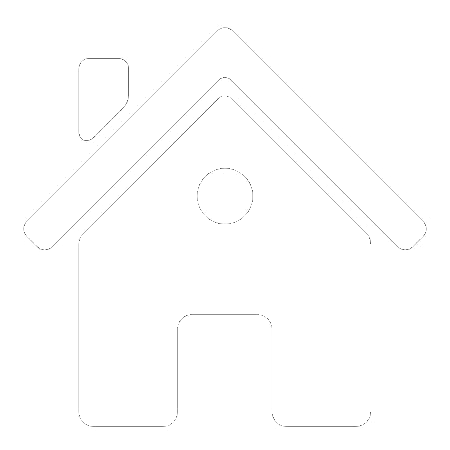
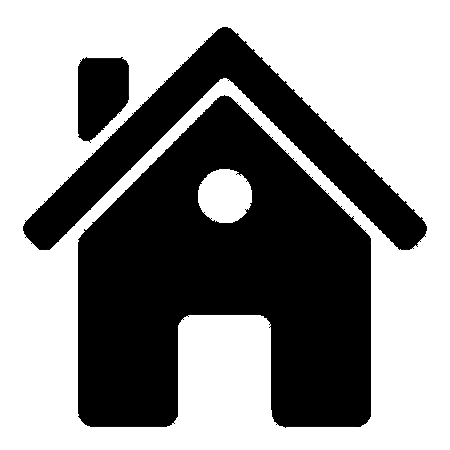
Menu updates

diff --git a/index.html b/index.html
@@ -1,35 +1,35 @@
 <!DOCTYPE html>
 <html>
 <head>
-  <title>test</title>
-  <link href="test.css" rel="stylesheet" type="text/css" />
+	<title>test</title>
+	<link href="css/test.css" rel="stylesheet" type="text/css" />
 </head>
 <body>
-  <div style="margin-right:auto;width:11%;height:100%;background-color: blue;position: fixed;">
-  <div style="display:flex;justify-content:center;align-items:center;height:100%;"> 
-    <table>
-      <tr>
-              <td> <a href="index.html" ><img id="logo" src="images/house.jpg" width = "100%"></a></td>
-           </tr>
-           <tr>
-              <td ><a href="workhistory.html"><img id="logo" src="images/house.jpg" width = "100%"></a></td>
-           </tr>
-           <tr>
-              <td><a href="certifications.html"><img id="logo" src="images/house.jpg" width = "100%"></a></td>
-           </tr>
-           <tr>
-              <td><a href="athletics.html"><img id="logo" src="images/house.jpg" width = "100%"></a></td>
-           </tr>
-           <tr>
-              <td><a href="connect.html"><img id="logo" src="images/house.jpg" width = "100%"></a></td>
-           </tr>
-      </table>
-  </div> 
+	<div style="margin-right:auto;width:11%;max-width:200px;height:100%;background-color: blue;position: fixed;">
+	<div style="display:flex;justify-content:center;align-items:center;height:100%;">	
+		<table>
+		 	<tr>
+	            <td> <a href="index.html" ><img id="logo" src="images/house.png" width = "100%"></a></td>
+	         </tr>
+	         <tr>
+	            <td ><a href="workhistory.html"><img id="logo" src="images/work.png" width = "100%"></a></td>
+	         </tr>
+	         <tr>
+	            <td><a href="certifications.html"><img id="logo" src="images/certs.png" width = "100%"></a></td>
+	         </tr>
+	         <tr>
+	            <td><a href="athletics.html"><img id="logo" src="images/sports.png" width = "100%"></a></td>
+	         </tr>
+	         <tr>
+	            <td><a href="connect.html"><img id="logo" src="images/connect.png" width = "100%"></a></td>
+	         </tr>
+	    </table>
+	</div> 
 </div>
 
 <div style="margin-left:auto; width:94%;">
-  <div style="margin-left:auto; width:100%;">
-  <h1 align="center">About Me</h1></div><img align="center" height="400px" id=
+	<div style="margin-left:auto; width:100%;">
+	<h1 align="center">About Me</h1></div><img  id=
       "picture-of-me" src="images/mesailing.jpg" name="picture-of-me" />
   
   <div style="margin-left:auto; width:88%;">

diff --git a/Test/index.html b/Test/index.html
@@ -2,7 +2,7 @@
 <html>
 <head>
 	<title>test</title>
-	<link href="test.css" rel="stylesheet" type="text/css" />
+	<link href="css/test.css" rel="stylesheet" type="text/css" />
 </head>
 <body>
 	<div style="margin-right:auto;width:11%;height:100%;background-color: blue;position: fixed;">

diff --git a/css/new.css b/css/new.css
@@ -50,8 +50,8 @@ a{
      padding: 10px;
 }
 #picture-of-me {
-     position: center;
-     opacity: 1;
+     width:100%;
+     z-index:0;
 }
 .left{
      text-align: left;

diff --git a/css/test.css b/css/test.css
@@ -1,0 +1,5 @@
+#picture-of-me{
+    width:100%;
+    height:23.44%;
+     z-index:0;
+}
